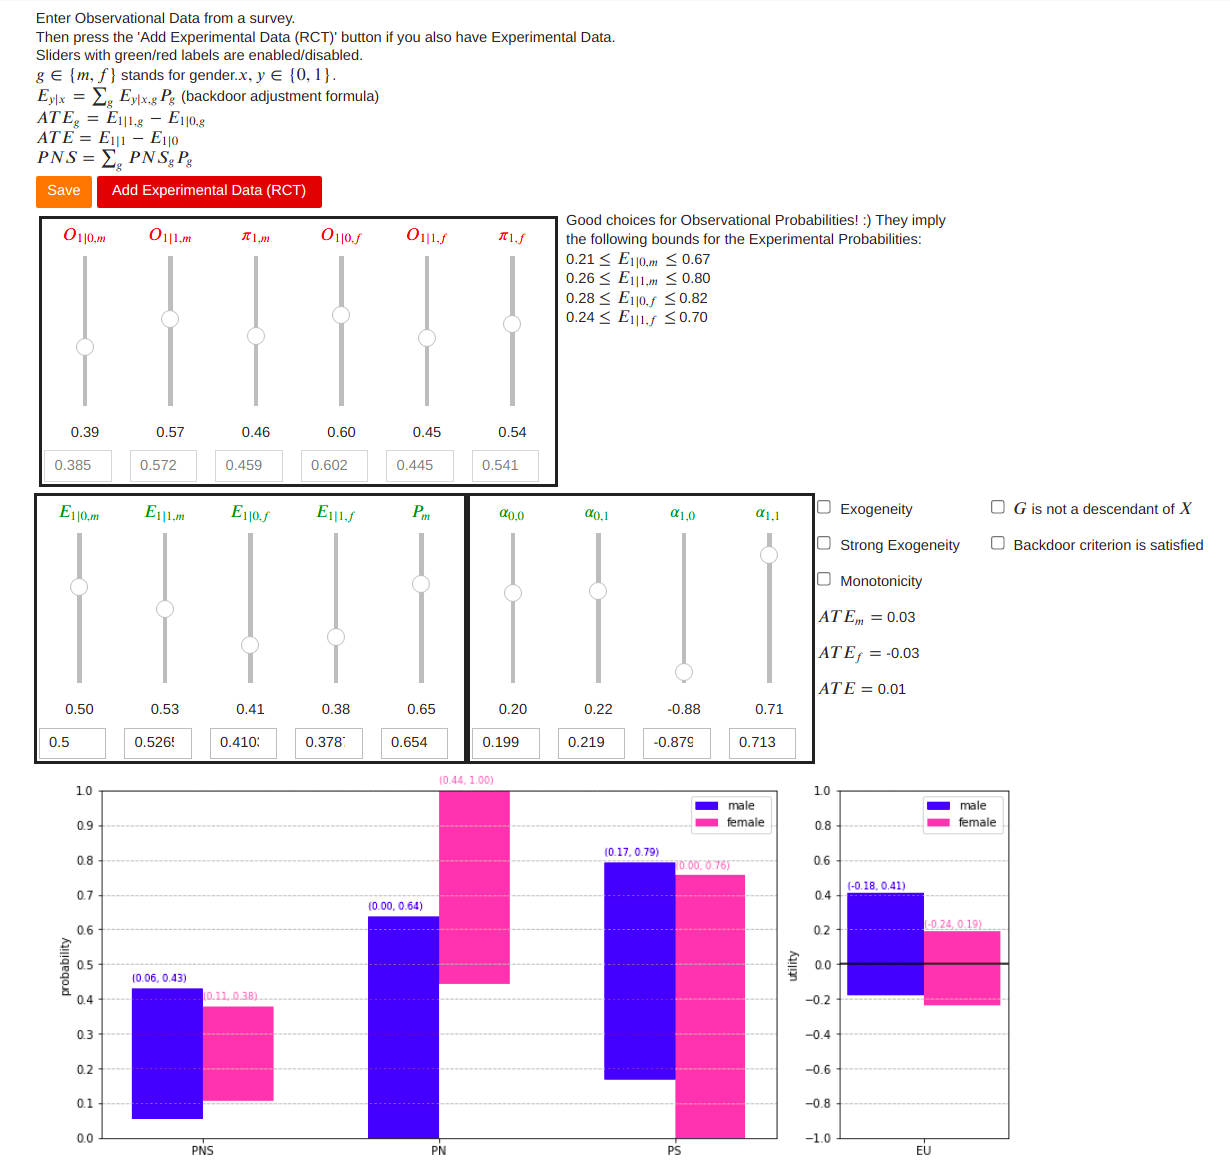
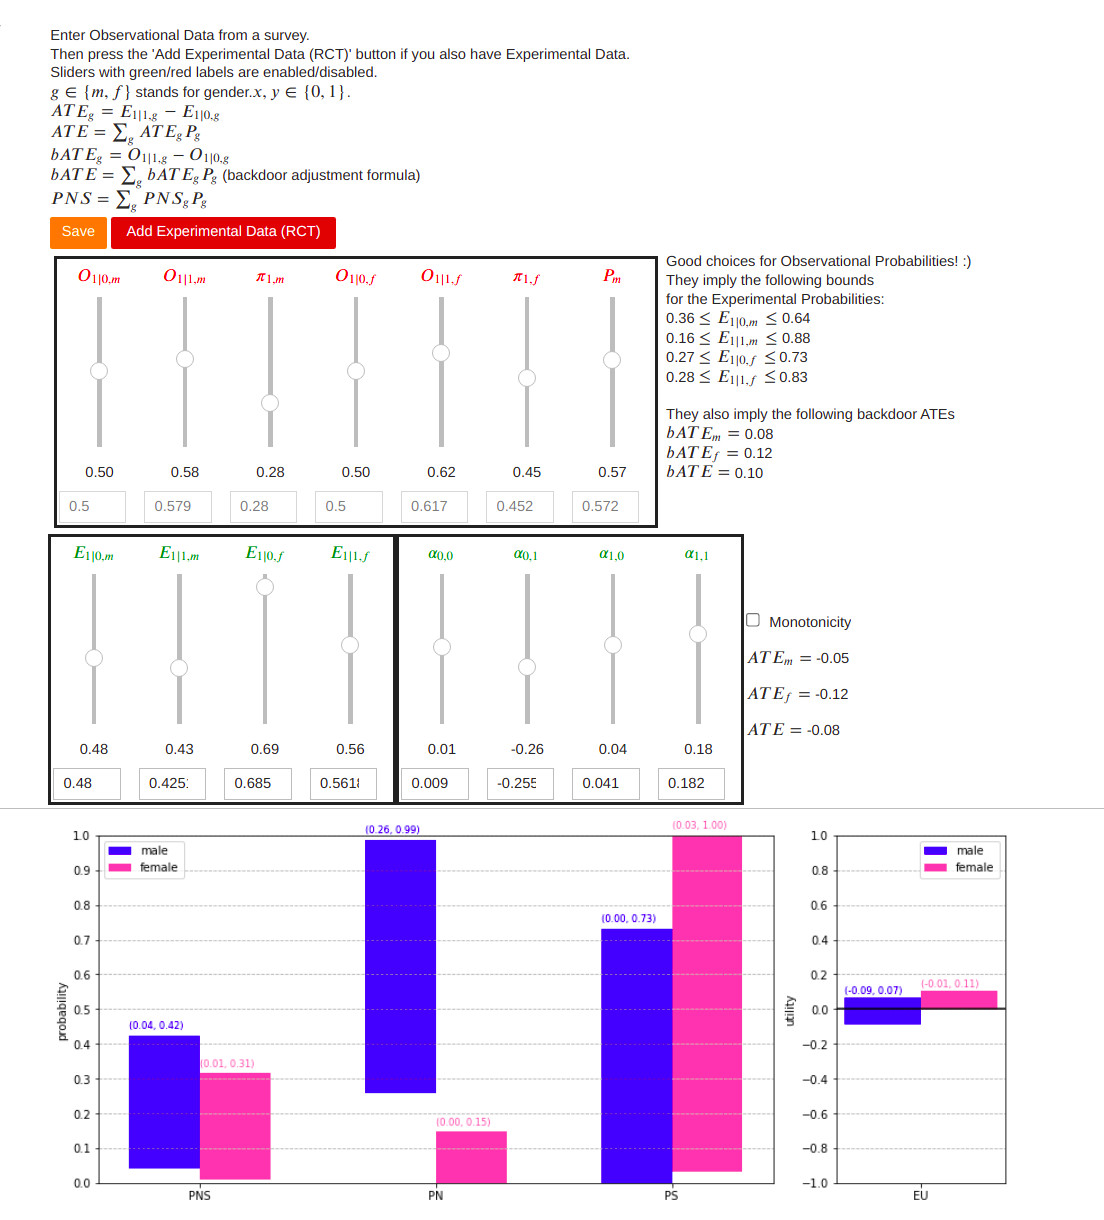
Improved Interface. Added backdoor ATE to it. Moved P_m slider to top row.

Changed region(s): [[0.0, 0.0, 0.9239, 0.9846], [0.8007, 0.4308, 0.9855, 0.4923]]

diff --git a/Widgeter.py b/Widgeter.py
@@ -92,9 +92,9 @@ class Widgeter:
             self,
             o1b0_m, o1b1_m, px1_m,
             o1b0_f, o1b1_f, px1_f,
+            pmale,
             e1b0_m, e1b1_m,
             e1b0_f, e1b1_f,
-            pmale,
             alp00, alp01, alp10, alp11
             ):
         """
@@ -116,6 +116,8 @@ class Widgeter:
             O_{1|1,f}
         px1_f : float
             P(x=1) for females
+        pmale : float
+            P(g=male)
         e1b0_m : float
             E_{1|0,m}
         e1b1_m : float
@@ -124,8 +126,6 @@ class Widgeter:
             E_{1|0,f}
         e1b1_f : float
             E_{1|1,f}
-        pmale : float
-            P(g=male)
         alp00 : float
             \alpha_{0,0}, utility function component
         alp01 : float
@@ -217,9 +217,9 @@ class Widgeter:
 
     def refresh_plot(self):
         """
-        This method is a clever way of inducing the method wid.interactive()
-        to redraw the plot. The method jiggles the pmale slider,
-        thus causing wid.interactive() to redraw the plot.
+        This method is a clever way of inducing the method wid.interactive() 
+        to redraw the plot. The method jiggles any slider, thus causing 
+        wid.interactive() to redraw the plot. 
 
         Returns
         -------
@@ -227,7 +227,7 @@ class Widgeter:
 
         """
         # just jiggle the pmale slider
-        x = self.exp_sliders[4]
+        x = self.exp_sliders[0]
         old_disabled = x.disabled
         x.disabled = False
         delta = .1
@@ -276,7 +276,7 @@ class Widgeter:
         This is the main method of this class and the only one meant for
         external use. It draws a GUI.
 
-        The GUI has 6 sliders for Observational Probabilities, 5 sliders for
+        The GUI has 7 sliders for Observational Probabilities, 4 sliders for
         Experimental Probabilities, and 4 sliders for utility function
         components (alphas). Each slider has a text box attached to it which
         can be used to enter input by typing numbers instead of moving the
@@ -311,8 +311,10 @@ class Widgeter:
         obs_f_sliders = [o1b0_f_slider,
                         o1b1_f_slider,
                         px1_f_slider]
+        pmale_slider = wid.widgets.FloatSlider(**slider_params)
         self.obs_sliders = [*obs_m_sliders,
-                            *obs_f_sliders]
+                            *obs_f_sliders,
+                            pmale_slider]
 
         e1b0_m_slider = wid.widgets.FloatSlider(**slider_params)
         e1b1_m_slider = wid.widgets.FloatSlider(**slider_params)
@@ -325,10 +327,9 @@ class Widgeter:
         # order important, 1b0 before 1b1,
         # mnemonic 10 < 11
         exp_f_sliders = [e1b0_f_slider, e1b1_f_slider]
-        pmale_slider = wid.widgets.FloatSlider(**slider_params)
+
         self.exp_sliders = [*exp_m_sliders,
-                            *exp_f_sliders,
-                            pmale_slider]
+                            *exp_f_sliders]
         
         alp_slider_params = dict(
             min=-1,
@@ -350,14 +351,15 @@ class Widgeter:
             #
             obs_f_sliders[0]: 'O_{1|0,f}',
             obs_f_sliders[1]: 'O_{1|1,f}',
-            obs_f_sliders[2]: '\pi_{1,f}'}
+            obs_f_sliders[2]: '\pi_{1,f}',
+            pmale_slider: 'P_m'
+        }
 
         self.exp_slider_to_latex = {
             exp_m_sliders[0]: 'E_{1|0,m}',
             exp_m_sliders[1]: 'E_{1|1,m}',
             exp_f_sliders[0]: 'E_{1|0,f}',
-            exp_f_sliders[1]: 'E_{1|1,f}',
-            pmale_slider: 'P_m'
+            exp_f_sliders[1]: 'E_{1|1,f}'
         }
         self.alp_slider_to_latex = {
             alp00_slider: r'\alpha_{0,0}',
@@ -367,15 +369,14 @@ class Widgeter:
         }
 
         header = wid.HTMLMath("Enter Observational Data from a survey." +
-            "<br>Then press the 'Add Experimental Data (RCT)' button\
-            if you also have Experimental Data."
-            "<br>Sliders with green/red labels are\
-            enabled/disabled."
+            "<br>Then press the 'Add Experimental Data (RCT)' button if you "
+            "also have Experimental Data."
+            "<br>Sliders with green/red labels are enabled/disabled."
             "<br>$g\in\{m,f\}$ stands for gender.$x,y\in \{0,1\}$."
-            "<br>$E_{y|x} = \sum_g E_{y|x,g}P_g$ (backdoor adjustment "
-            "formula)"
             "<br>$ATE_g = E_{1|1,g} - E_{1|0,g}$"
-            "<br>$ATE=E_{1|1} - E_{1|0}$"
+            "<br>$ATE=\sum_g ATE_g P_g$"
+            "<br>$bATE_g = O_{1|1,g} - O_{1|0,g}$"
+            "<br>$bATE=\sum_g bATE_g P_g$ (backdoor adjustment formula)"
             "<br>$PNS = \sum_g PNS_g P_g$")
 
         add_but = wid.Button(
@@ -403,7 +404,6 @@ class Widgeter:
 
                 self.refresh_plot()
 
-
         add_but.on_click(add_but_do)
 
         save_but = wid.Button(
@@ -422,13 +422,13 @@ class Widgeter:
                 self.bounder_m.print_utility_fun('_m')
                 self.bounder_f.print_utility_fun('_f')
                 print("ATE:-------------------------------")
-                ate_m = self.bounder_m.get_ATE()
-                ate_f = self.bounder_f.get_ATE()
-                if ate_m is not None and ate_f is not None:
-                    ate = ate_m * self.pmale + ate_f * (1 - self.pmale)
-                    print("ATE_m=", "%.3f" % ate_m)
-                    print("ATE_f", "%.3f" % ate_f)
-                    print("ATE=", "%.3f" % ate)
+                ATE_m = self.bounder_m.get_ATE()
+                ATE_f = self.bounder_f.get_ATE()
+                if ATE_m is not None and ATE_f is not None:
+                    ATE = ATE_m * self.pmale + ATE_f * (1 - self.pmale)
+                    print("ATE_m=", "%.3f" % ATE_m)
+                    print("ATE_f", "%.3f" % ATE_f)
+                    print("ATE=", "%.3f" % ATE)
                 print("PNS3:------------------------------")
                 self.bounder_m.print_pns3_bds('_m')
                 self.bounder_f.print_pns3_bds('_f')
@@ -486,9 +486,9 @@ class Widgeter:
             self.refresh_plot()
         mono_but.observe(mono_but_do, names='value')
 
-        ate_m_sign = wid.Label()
-        ate_f_sign = wid.Label()
-        ate_sign = wid.Label()
+        ATE_m_sign = wid.Label()
+        ATE_f_sign = wid.Label()
+        ATE_sign = wid.Label()
 
         def box_the_sliders(sliders):
             vbox_list = []
@@ -507,7 +507,7 @@ class Widgeter:
         # dags_box = checkboxes for special dags
         # constraints_box = wid.HBox([no_dags_box, dags_box])
         constraints_box = no_dags_box
-        ate_box = wid.VBox([ate_m_sign, ate_f_sign, ate_sign])
+        ATE_box = wid.VBox([ATE_m_sign, ATE_f_sign, ATE_sign])
         cmd_box = wid.HBox([save_but, add_but])
         obs_box, self.obs_slider_to_tbox = box_the_sliders(self.obs_sliders)
         # margin and padding are given as a single string with the values in
@@ -520,7 +520,7 @@ class Widgeter:
         exp_box, self.exp_slider_to_tbox = box_the_sliders(self.exp_sliders)
         exp_box = wid.HBox([exp_box],
             layout=wid.Layout(border='solid'))
-        exp_margin = wid.VBox([constraints_box, ate_box])
+        exp_margin = wid.VBox([constraints_box, ATE_box])
         alp_box, self.alp_slider_to_tbox = box_the_sliders(self.alp_sliders)
         alp_box = wid.HBox([alp_box],
             layout=wid.Layout(border='solid'))
@@ -534,17 +534,17 @@ class Widgeter:
 
         def fun(o1b0_m_slider, o1b1_m_slider, px1_m_slider,
                 o1b0_f_slider, o1b1_f_slider, px1_f_slider,
+                pmale_slider,
                 e1b0_m_slider, e1b1_m_slider,
                 e1b0_f_slider, e1b1_f_slider,
-                pmale_slider,
                 alp00_slider, alp01_slider, alp10_slider, alp11_slider
                 ):
             self.refresh_bounders_using_slider_vals(
                 o1b0_m_slider, o1b1_m_slider, px1_m_slider,
                 o1b0_f_slider, o1b1_f_slider, px1_f_slider,
+                pmale_slider,
                 e1b0_m_slider, e1b1_m_slider,
                 e1b0_f_slider, e1b1_f_slider,
-                pmale_slider,
                 alp00_slider, alp01_slider, alp10_slider, alp11_slider
             )
             # refresh self.pmale using slider value
@@ -556,13 +556,16 @@ class Widgeter:
             eu_bds_m = self.bounder_m.get_eu_bds()
             eu_bds_f = self.bounder_f.get_eu_bds()
 
-            Plotter_2z.plot_all(p3_bds_m=p3_bds_m, p3_bds_f=p3_bds_f,
-                eu_bds_m=eu_bds_m, eu_bds_f=eu_bds_f)
+            Plotter_2z.plot_all_bds(p3_bds_m=p3_bds_m, p3_bds_f=p3_bds_f,
+                                    eu_bds_m=eu_bds_m, eu_bds_f=eu_bds_f)
 
             exp3_bds_sign.value = "Good choices for Observational " \
-                "Probabilities! :) They imply<br> the following bounds " \
-                "for the Experimental Probabilities:"
+                "Probabilities! :) <br>They imply the following bounds " \
+                "<br>for the Experimental Probabilities:"
             left_bds, right_bds = self.bounder_m.get_exp_probs_bds()
+            bdoorATE_m = self.bounder_m.get_bdoorATE()
+            bdoorATE_f = self.bounder_f.get_bdoorATE()
+            bdoorATE = bdoorATE_m*self.pmale + bdoorATE_f*(1-self.pmale)
             exp3_bds_sign.value +=\
                 '<br>%.2f $\leq E_{1|0,m} \leq$ %.2f'\
                     % (left_bds[1, 0], right_bds[1, 0]) +\
@@ -574,13 +577,19 @@ class Widgeter:
                     % (left_bds[1, 0], right_bds[1, 0]) +\
                 '<br>%.2f $\leq E_{1|1,f}\leq$ %.2f' \
                     % (left_bds[1, 1], right_bds[1, 1])
-            ate_f = self.bounder_f.get_ATE()
-            ate_m = self.bounder_m.get_ATE()
-            if ate_m is not None and ate_f is not None:
-                ate = ate_m*self.pmale + ate_f*(1-self.pmale)
-                ate_m_sign.value = '$ATE_m=$ %.2f' % ate_m
-                ate_f_sign.value = '$ATE_f=$ %.2f' % ate_f
-                ate_sign.value = '$ATE=$ %.2f' % ate
+            exp3_bds_sign.value += \
+                "<br><br>They also imply the following backdoor ATEs" +\
+                '<br>$bATE_m=$ %.2f' % (bdoorATE_m) +\
+                '<br>$bATE_f=$ %.2f' % (bdoorATE_f) +\
+                '<br>$bATE=$ %.2f' % (bdoorATE)
+
+            ATE_m = self.bounder_m.get_ATE()
+            ATE_f = self.bounder_f.get_ATE()
+            if ATE_m is not None and ATE_f is not None:
+                ATE = ATE_m*self.pmale + ATE_f*(1-self.pmale)
+                ATE_m_sign.value = '$ATE_m=$ %.2f' % ATE_m
+                ATE_f_sign.value = '$ATE_f=$ %.2f' % ATE_f
+                ATE_sign.value = '$ATE=$ %.2f' % ATE
 
         slider_dict = {
             'o1b0_m_slider': o1b0_m_slider,
@@ -589,11 +598,11 @@ class Widgeter:
             'o1b0_f_slider': o1b0_f_slider,
             'o1b1_f_slider': o1b1_f_slider,
             'px1_f_slider': px1_f_slider,
+            'pmale_slider': pmale_slider,
             'e1b0_m_slider': e1b0_m_slider,
             'e1b1_m_slider': e1b1_m_slider,
             'e1b0_f_slider': e1b0_f_slider,
             'e1b1_f_slider': e1b1_f_slider,
-            'pmale_slider': pmale_slider,
             'alp00_slider': alp00_slider,
             'alp01_slider': alp01_slider,
             'alp10_slider': alp10_slider,

diff --git a/Plotter_nz.py b/Plotter_nz.py
@@ -192,32 +192,36 @@ class Plotter_nz:
         plt.show()
 
     @staticmethod
-    def plot_both_ATE(ATE, bdoorATE):
+    def plot_both_ATE(bdoorATE, ATE=None):
         """
         This method is called by class Comparer. It draws a scatter plot of
-        ( ATE_z, z) for all z and (bdoorATE_z, z) for all z. It also plots
-        vertical lies at the expected ATE and expected bdoorATE.
+        (bdoorATE_z, z) for all z and (ATE_z, z) for all z. It also plots
+        vertical lies at the expected bdoorATE and expected ATE.
 
         Parameters
         ----------
-        ATE : (OrderedDict[str, float], float)
         bdoorATE : (OrderedDict[str, float], float)
+        ATE : (OrderedDict[str, float], float), None
 
         Returns
         -------
         None
 
         """
-        ATE_e, exp_e = list(ATE[0].values()), ATE[1]
         ATE_o, exp_o = list(bdoorATE[0].values()), bdoorATE[1]
         znames = list(ATE[0].keys())
 
         fig, ax = plt.subplots(1, 1)
-        ax.scatter(ATE_e, znames, color='hotpink')
         ax.scatter(ATE_o, znames, color='blue')
-        ax.legend(["ATE", "Backdoor ATE"])
-        ax.axvline(x=exp_e, color='hotpink')
         ax.axvline(x=exp_o, color='blue')
+
+        if ATE is not None:
+            ATE_e, exp_e = list(ATE[0].values()), ATE[1]
+            ax.scatter(ATE_e, znames, color='hotpink')
+            ax.axvline(x=exp_e, color='hotpink')
+            ax.legend(["ATE", "Backdoor ATE"])
+        else:
+            ax.legend(["Backdoor ATE"])
 
         ax.set_xlim(-1, 1)
         ax.grid(linestyle='--', axis='y')

diff --git a/Comparer.py b/Comparer.py
@@ -152,8 +152,12 @@ class Comparer:
         None
 
         """
-        Plotter_nz.plot_both_ATE(self.get_ATE(),
-                                 self.get_bdoorATE())
+        bdoorATE = self.get_bdoorATE()
+        if self.only_obs:
+            ATE = None
+        else:
+            ATE = self.get_ATE()
+        Plotter_nz.plot_both_ATE(bdoorATE, ATE=ATE)
 
     @staticmethod
     def create_from_file(path, **kwargs):
@@ -219,8 +223,8 @@ class Comparer:
     def get_bdoorATE(self):
         """
         Returns a tuple consisting of (1) a dictionary mapping zname to
-        bdoorATE_z = O{1|1,z} - O_{1,0,z} and (2) the expected bdoorATE
-        defined as bdoorATE=\sum_z P(z) bdoorATE_z
+        backdoor ATE defined as bdoorATE_z = O{1|1,z} - O_{1,0,z} and (2)
+        the expected bdoorATE defined as bdoorATE=\sum_z P(z) bdoorATE_z
 
         Returns
         -------
@@ -281,6 +285,10 @@ class Comparer:
         None
 
         """
+        if self.only_obs:
+            self.print_bdoorATE()
+            return
+
         ate_dict_o, exp_o = self.get_bdoorATE()
         ate_dict_e, exp_e = self.get_ATE()
         print("------------------------------------")

diff --git a/Plotter_2z.py b/Plotter_2z.py
@@ -116,7 +116,7 @@ class Plotter_2z:
         ax.axhline(y=0, color='black')
 
     @staticmethod
-    def plot_all(p3_bds_m, p3_bds_f, eu_bds_m, eu_bds_f):
+    def plot_all_bds(p3_bds_m, p3_bds_f, eu_bds_m, eu_bds_f):
         """
         This method calls both plot_pns3_bds() and plot_eu_bds().
 
@@ -190,6 +190,6 @@ if __name__ == "__main__":
         eu_bds_m = np.array([-.4, .8])
         eu_bds_f = np.array([0, .5])
 
-        Plotter_2z.plot_all(p3_bds_m, p3_bds_f, eu_bds_m, eu_bds_f)
+        Plotter_2z.plot_all_bds(p3_bds_m, p3_bds_f, eu_bds_m, eu_bds_f)
 
     main()

diff --git a/FAQ.md b/FAQ.md
@@ -8,7 +8,3 @@
 
    Sliders with a red 
 label are disabled and can't be moved. Sliders with a green label are enabled.
-3. **What do the "*G*  is not a descendant of  *X*" and "Backdoor criterion is 
-   satisfied" checkboxes do?**
-
-   Nothing so far. They will do something in the future.
